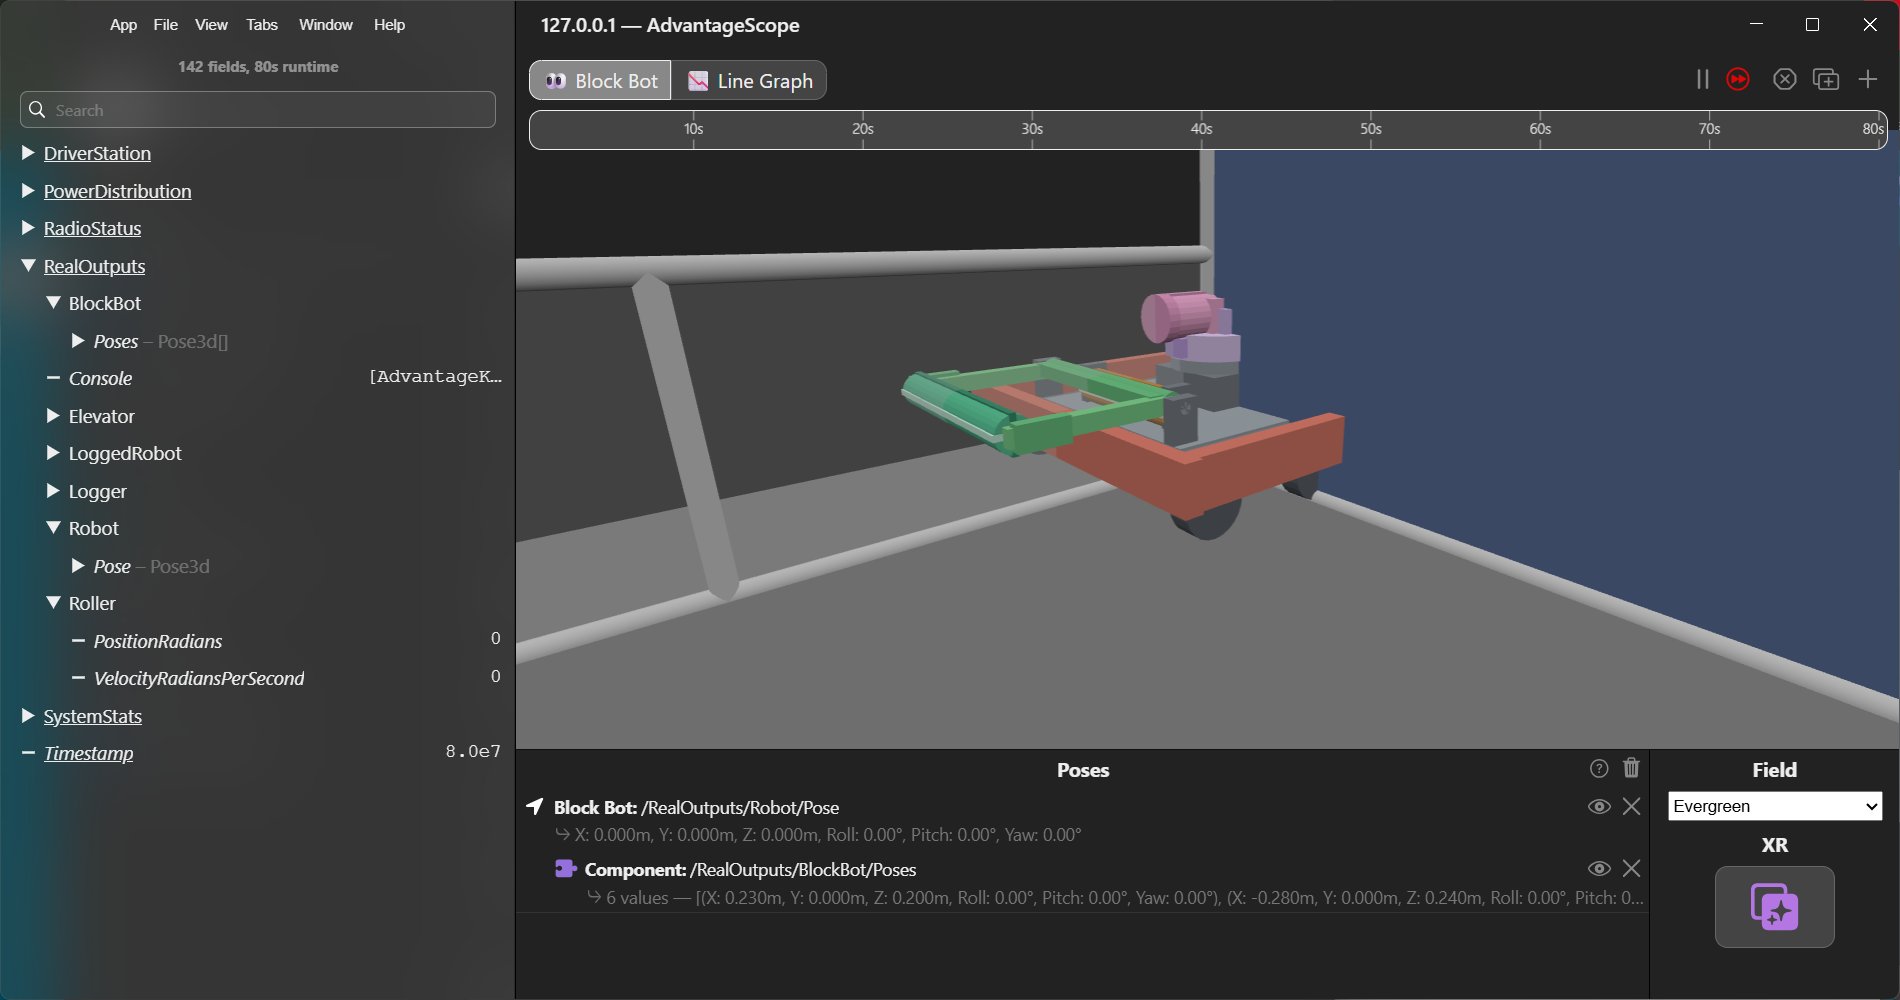
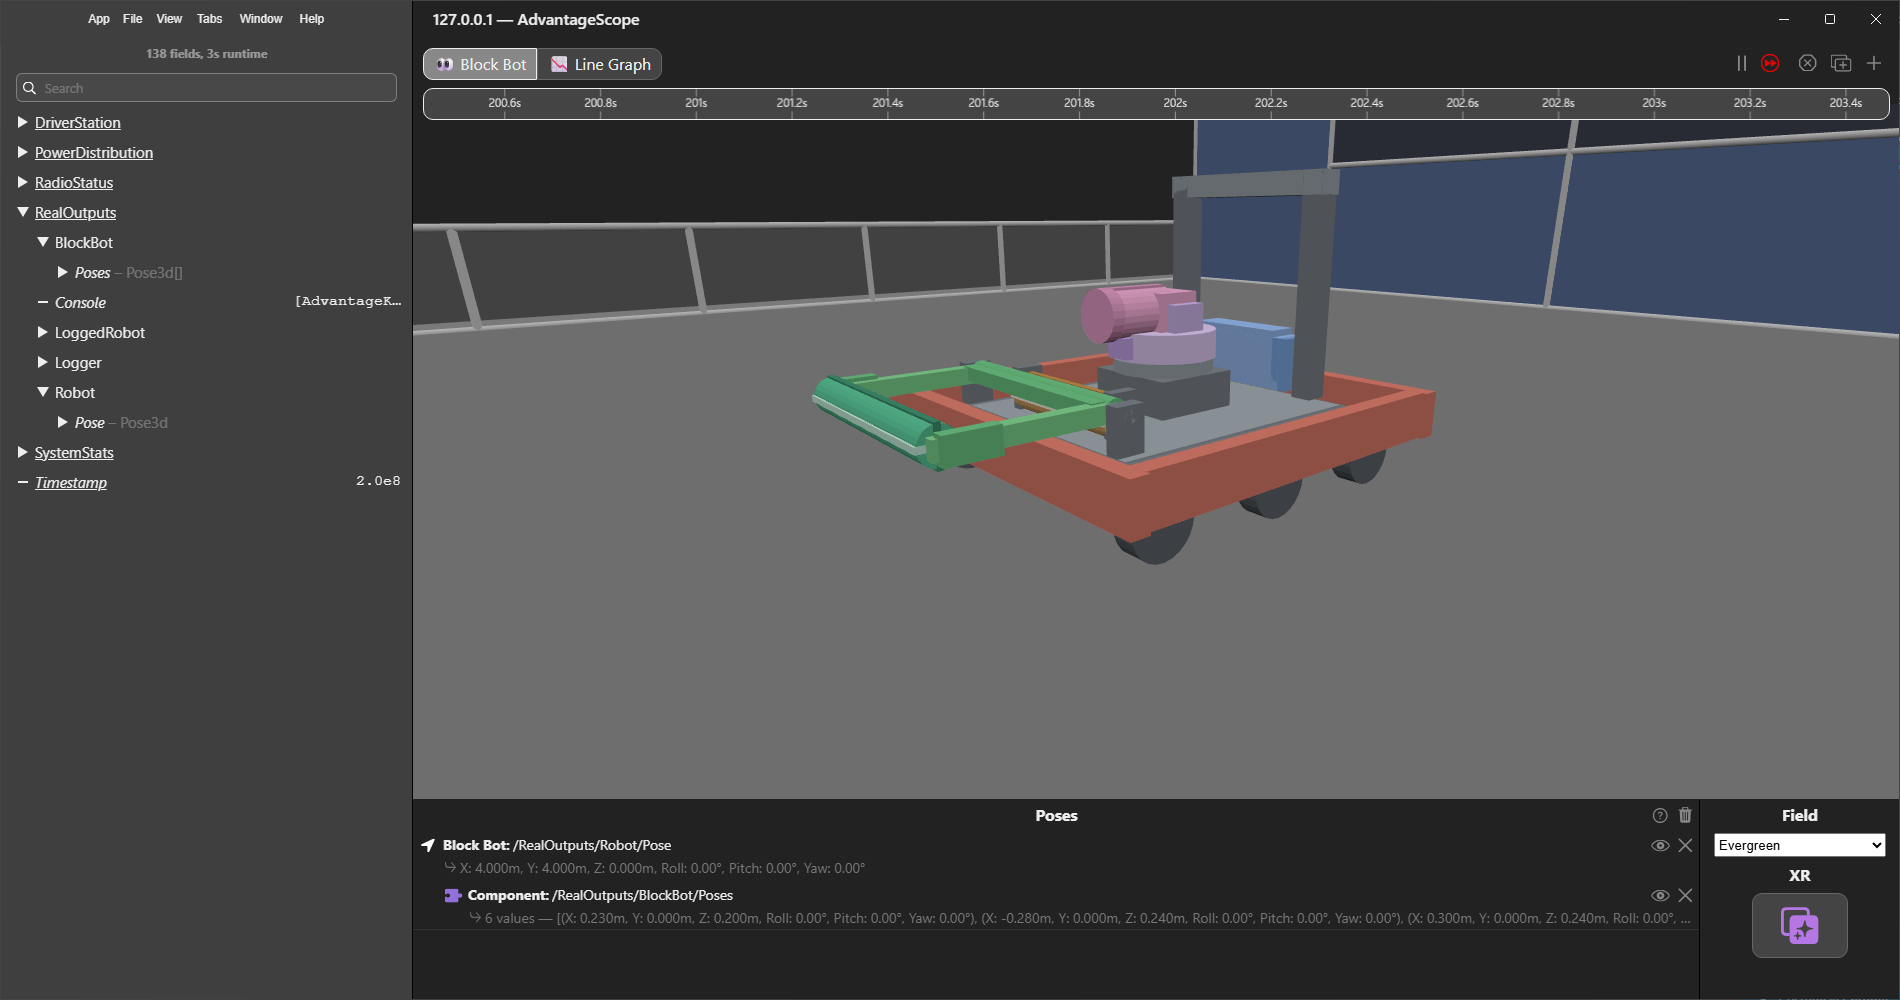
Place the robot inside the field and refresh the 3D screenshot

diff --git a/src/main/java/first/robot/BlockBot.java b/src/main/java/first/robot/BlockBot.java
@@ -34,6 +34,12 @@ public final class BlockBot {
    */
   private static final String ROBOT_POSE_KEY = "Robot/Pose";
 
+  /**
+   * Where the robot stands on the field. The field origin is the driver station corner, where the
+   * model would intersect the wall, so it is placed a few metres inside instead.
+   */
+  private static final Pose3d ROBOT_POSE = new Pose3d(4.0, 4.0, 0.0, Rotation3d.kZero);
+
   /** Where each joint sits in the model's zero configuration. */
   private static final double FEEDER_X = 0.23;
 
@@ -102,7 +108,7 @@ public final class BlockBot {
           new Transform3d(0, 0, HOOD_OFFSET_Z, new Rotation3d(0, m_hoodPitch.getAsDouble(), 0)))
     };
 
-    Logger.recordOutput(ROBOT_POSE_KEY, Pose3d.kZero);
+    Logger.recordOutput(ROBOT_POSE_KEY, ROBOT_POSE);
     Logger.recordOutput(POSES_KEY, poses);
   }
 }

diff --git a/AGENTS.md b/AGENTS.md
@@ -100,9 +100,10 @@ means adding a factory in `Motor`.
 - Source keys are `/RealOutputs/<Key>` — no `NT:` prefix and no `AdvantageKit` segment — and that form
   works for both the live NT source and a `.wpilog` opened from `logs/`. `NT:/AdvantageKit/RealOutputs/...`
   resolves to nothing in either mode.
-- `Robot/Pose` is published every loop. A constant pose is fine live: AdvantageScope subscribes with
-  periodic resend, so the NT4 server keeps streaming the last value. In a log the pose has a single
-  sample, so advance the playhead off `0s` before the first sample.
+- `Robot/Pose` is published every loop at a point inside the field (the field origin is the driver
+  station corner, where the model would intersect the wall). A constant pose is fine live: AdvantageScope
+  subscribes with periodic resend, so the NT4 server keeps streaming the last value. In a log the pose
+  has a single sample, so advance the playhead off `0s` before the first sample.
 - The 3D tab is **two sources, not seven**: robot `/RealOutputs/Robot/Pose` (`Pose3d`, model `Block
   Bot` — the config `name`, not the folder) and one component `/RealOutputs/BlockBot/Poses`
   (`Pose3d[]`). Component pose `i` drives `model_i.glb`; per-component sources are neither needed
